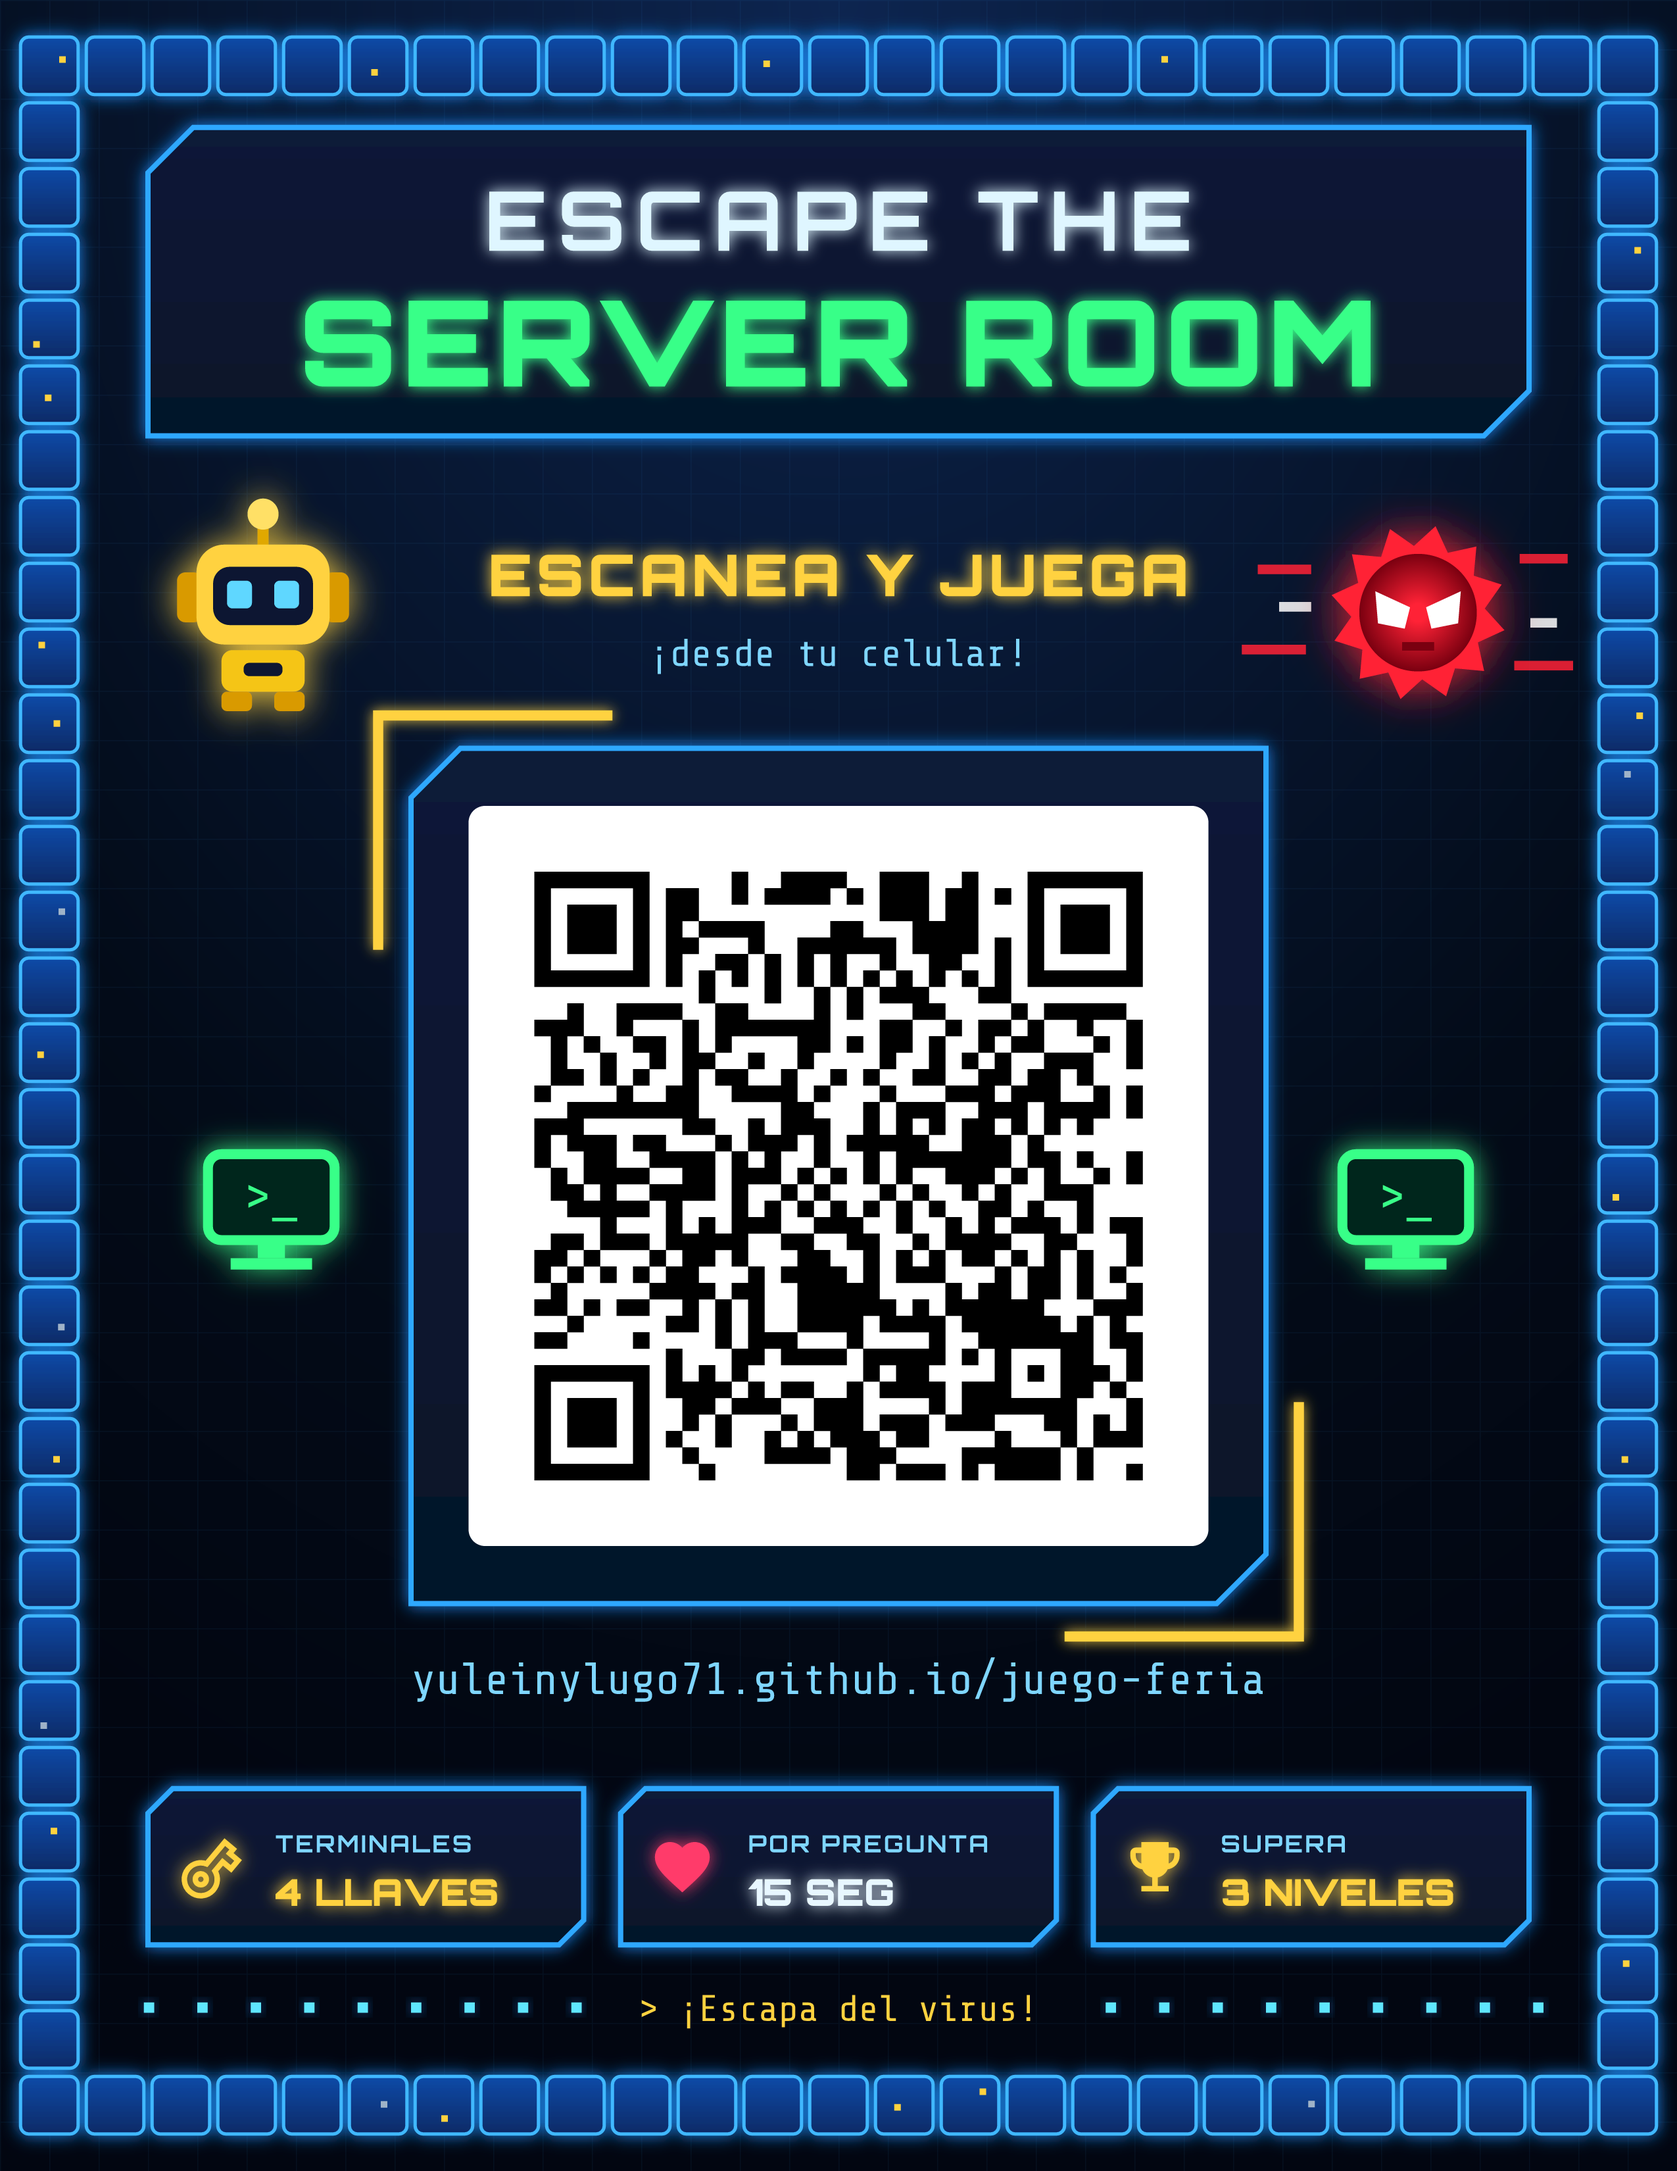
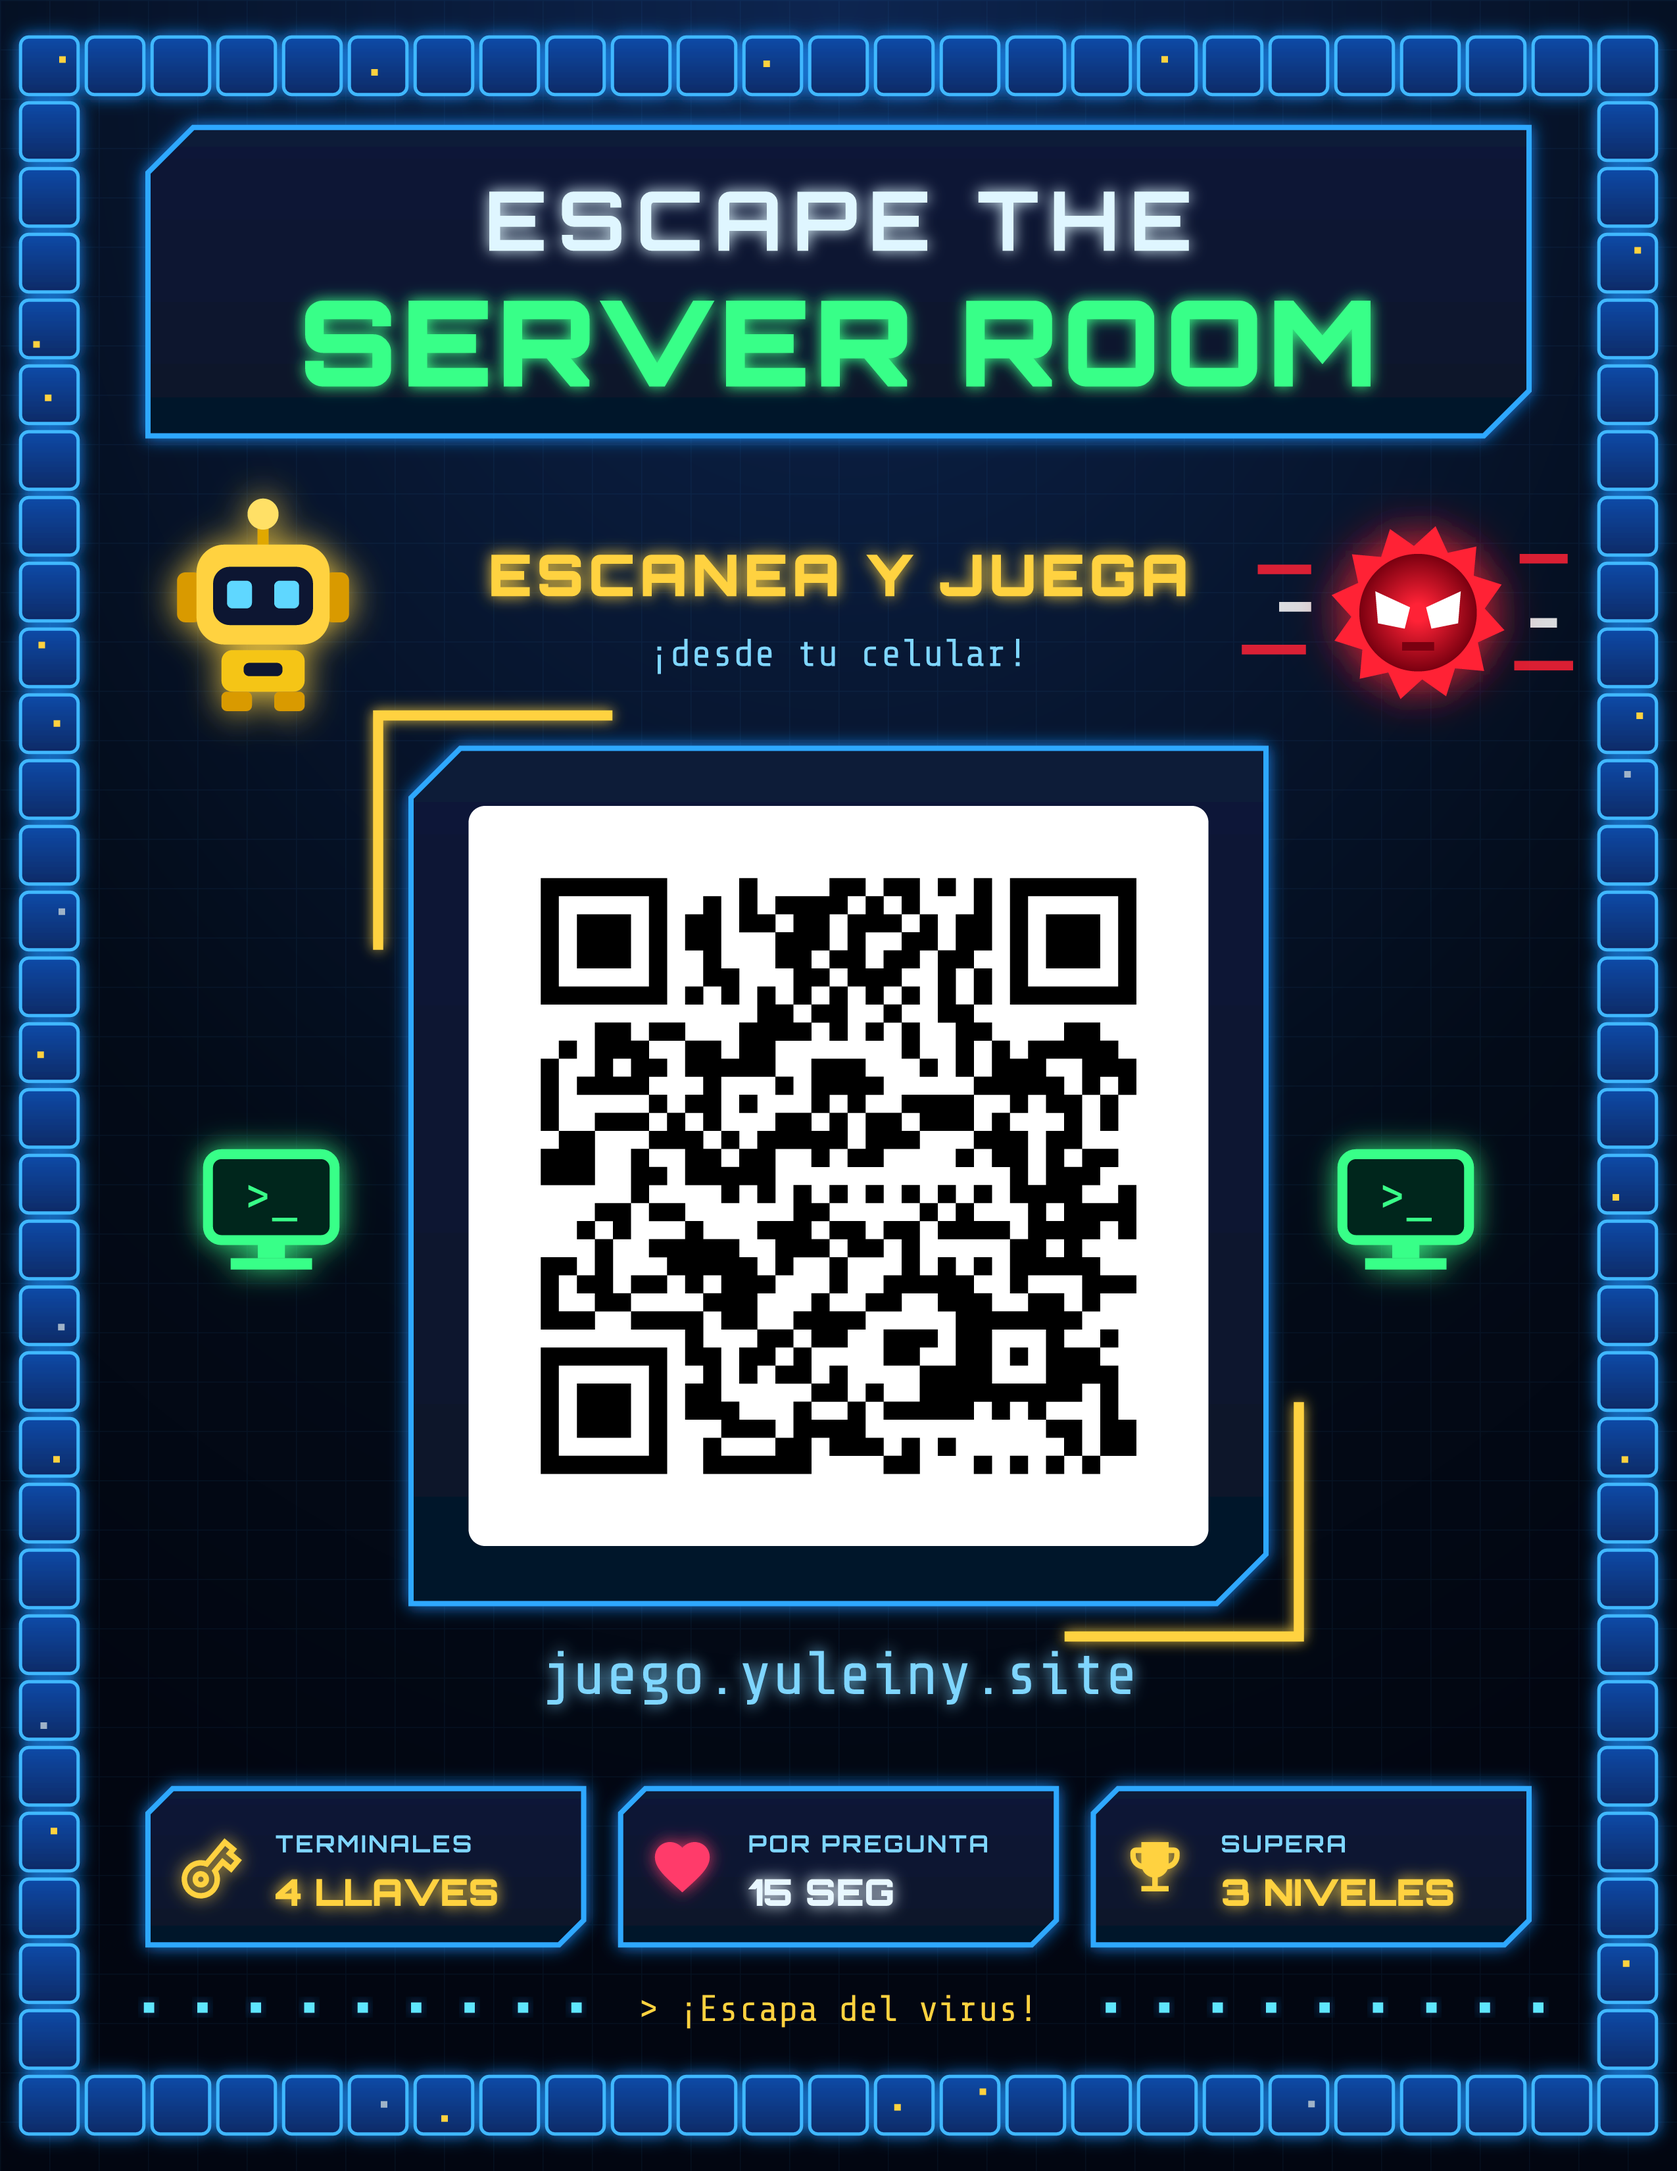
Quitar preguntas que tratan al celular/tablet como computadora; QR al VPS
- "¿Qué computadora cabe en tu bolsillo? → smartphone" se cambia por una
  pregunta sobre servidores; la tablet pasa a "dispositivo con pantalla
  táctil" (categoría DISPOSITIVOS).
- QR y cartel apuntan ahora a https://juego.yuleiny.site (el VPS), para
  que el monitoreo cuente a quienes escanean.

Changed region(s): [[0.3098, 0.3745, 0.6816, 0.6867], [0.2478, 0.7491, 0.7435, 0.8115]]

diff --git a/index.html b/index.html
@@ -465,8 +465,8 @@ const TECH_QUESTIONS = [
   { t: "TIPOS DE PC", q: "¿Cuál de estos es un <b>tipo de computadora</b>?", o: ["Laptop", "Licuadora", "Lavadora", "Microondas"], a: 0 },
   { t: "TIPOS DE PC", q: "Una computadora <b>portátil</b> también se llama...", o: ["Laptop", "Router", "Monitor", "Impresora"], a: 0 },
   { t: "TIPOS DE PC", q: "Una computadora de <b>escritorio</b> (desktop)...", o: ["Se queda fija en una mesa", "Cabe en el bolsillo", "Funciona sin luz", "Es solo una pantalla"], a: 0 },
-  { t: "TIPOS DE PC", q: "¿Qué computadora cabe en tu <b>bolsillo</b>?", o: ["Un smartphone", "Un servidor", "Una desktop", "Una supercomputadora"], a: 0 },
-  { t: "TIPOS DE PC", q: "Una <b>tablet</b> es...", o: ["Una computadora con pantalla táctil", "Un tipo de teclado", "Una impresora", "Un cable"], a: 0 },
+  { t: "TIPOS DE PC", q: "¿Qué tipo de computadora guarda las páginas web y atiende a <b>muchos usuarios</b> a la vez?", o: ["Un servidor", "Una laptop", "Una calculadora", "Un monitor"], a: 0 },
+  { t: "DISPOSITIVOS", q: "Una <b>tablet</b> es...", o: ["Un dispositivo con pantalla táctil", "Un tipo de teclado", "Una impresora", "Un cable"], a: 0 },
   { t: "TIPOS DE PC", q: "¿Qué significa <b>PC</b>?", o: ["Computadora Personal", "Pantalla de Color", "Programa Central", "Punto de Conexión"], a: 0 },
   // ---- teclado y partes ----
   { t: "TECLADO", q: "¿Cuántas teclas tiene <b>en promedio</b> un teclado de computadora?", o: ["Unas 105", "Unas 20", "Unas 50", "Unas 500"], a: 0 },
